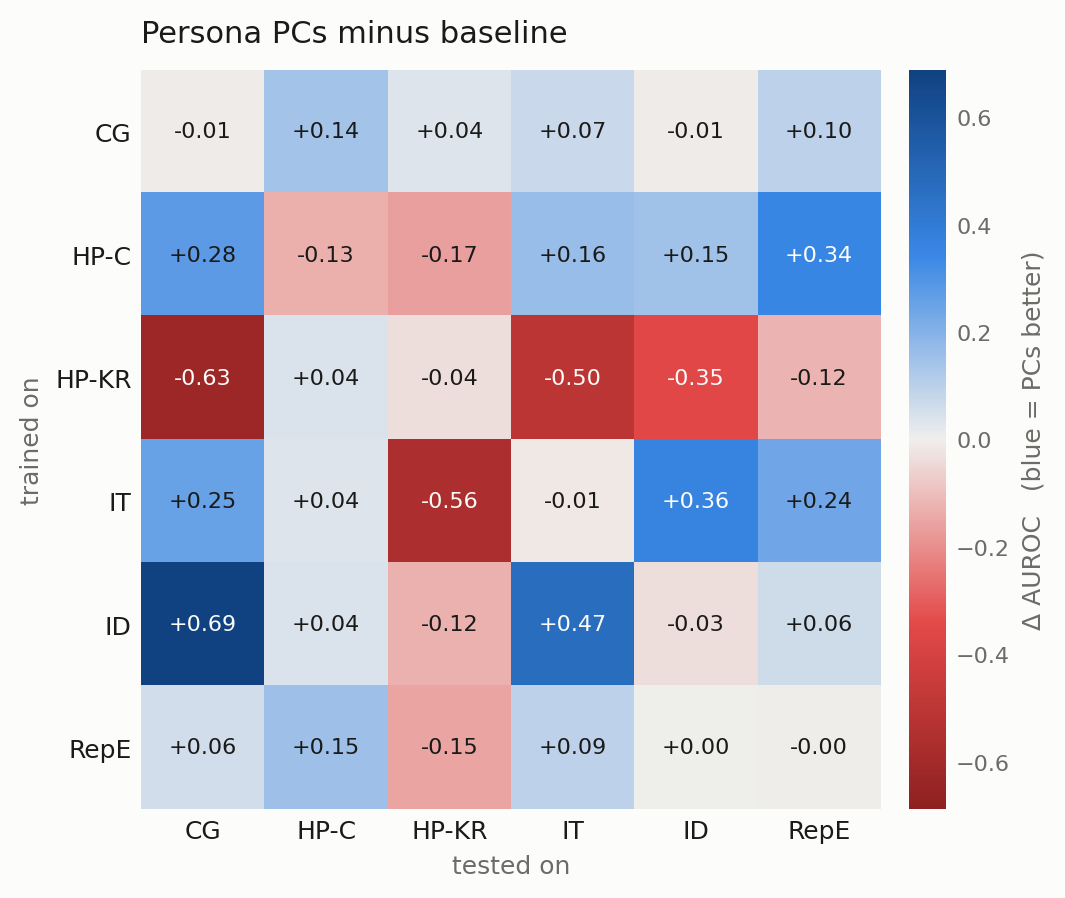
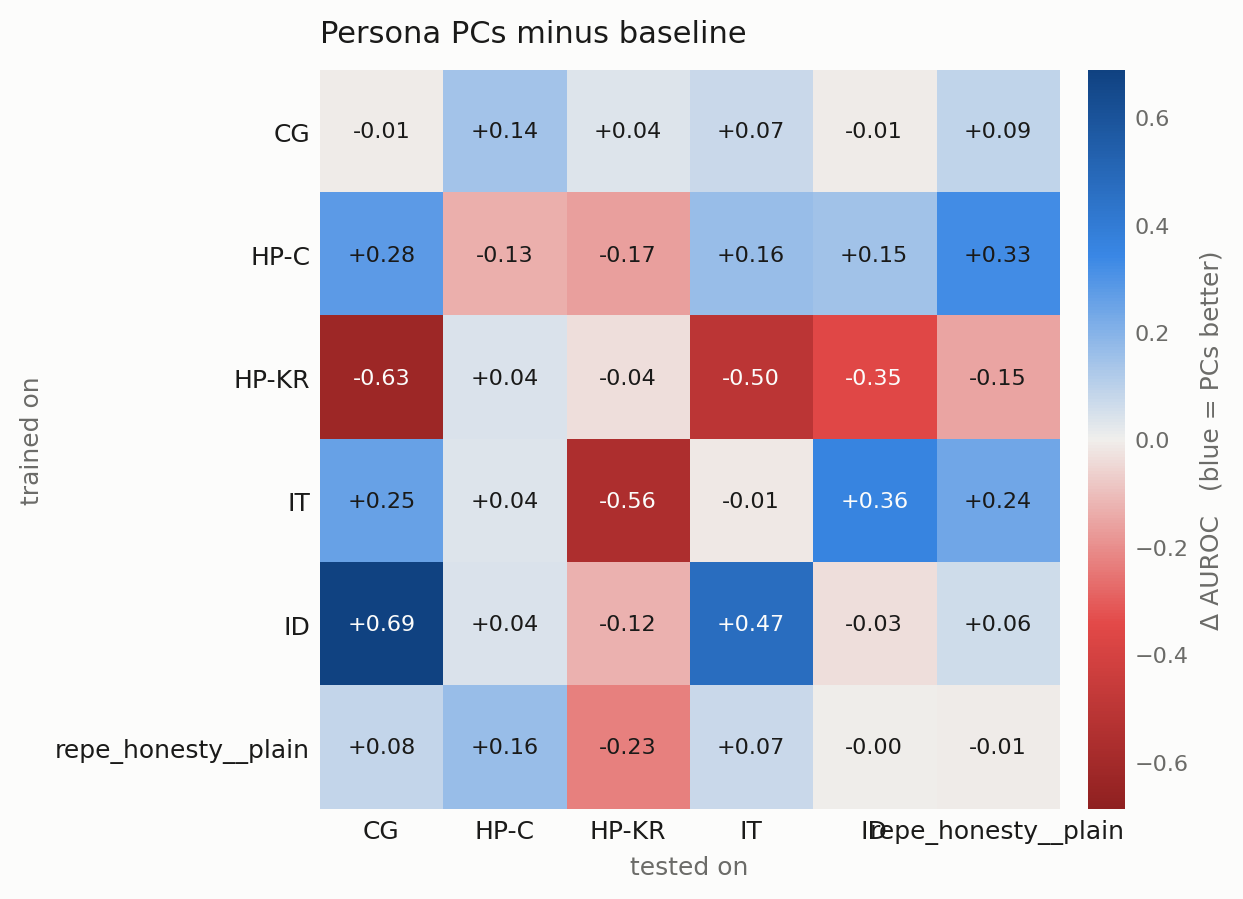
Use the full RepE split in the transfer matrix, and score against the benchmark metric
pool_activations walked eval_datasets + control_datasets, and train_dataset is
in neither, so RepE was represented in the matrix only by its 102-row
validation remainder -- not the 490-row split the probe actually trains on.
That handicapped the RepE row of the 8192-d baseline for a reason unrelated to
the method under test.

Pool the train split too and merge the halves back into one RepE dataset (448
+ 102 = 550 rows). They are an 80/20 split of the same 306 facts, so keeping
them apart would also have created a train->val cell that looks like transfer
while being purely in-distribution.

Effect on the headline: none worth speaking of. Off-diagonal baseline 0.6468
-> 0.6478, pc3 0.6853 -> 0.6823, and every conclusion stands, including the
6x drop in train-set sensitivity (0.167 -> 0.027). Pooling still verifies at
delta 0.0000 against the run.

Also answers whether this beats the benchmark: no. On Liars' Bench's own
headline metric -- balanced accuracy at 1% FPR on the alpaca control -- the
persona methods reach 0.547-0.558 against the paper's Mean Probe at 0.636 and
this run's probe at 0.721, despite having the best AUROC of the three (0.75
-0.77 vs 0.68-0.70). The cause is calibration, not ranking: on convincing-game
the axis scores AUROC 0.976 and flags 1.2% of the lies, because the whole
dataset sits below the control threshold. That is the same pathology the paper
reports for its own probe, more severe.
[…]

diff --git a/src/probes/deception-detection/deception_detection/scripts/persona_ood.py b/src/probes/deception-detection/deception_detection/scripts/persona_ood.py
@@ -43,6 +43,13 @@ OUT_DIR = REPO_ROOT / "results" / "persona_ood"
 # honest-only, so it cannot be a train/test cell; kept as a zero-shot reference
 CONTROL_DATASET = "XXXX-20__plain"
 
+# The experiment splits RepE 80/20 into train and a "_val" remainder, but both halves are the
+# same 306 underlying facts, so for transfer purposes they are one dataset. Merging them gives
+# the RepE row the training protocol the paper actually uses (and the deployed probe was fitted
+# with) instead of the 102-row remainder. Keeping them apart would also create a train->val cell
+# that looks like transfer while being purely in-distribution.
+MERGE_INTO = {"repe_honesty__plain_val": "repe_honesty__plain"}
+
 # matches the deployed probe (detectors.py:311-376): standardise, then L2 logistic regression
 # with reg_coeff 10 and no intercept
 REG_COEFF = 10.0
@@ -68,7 +75,7 @@ class Pooled:
 
 def load_pooled(pooled_dir: Path = POOLED_DIR) -> dict[str, Pooled]:
     """Load every pooled dataset, keeping only HONEST/DECEPTIVE rows."""
-    out: dict[str, Pooled] = {}
+    parts: dict[str, list[tuple[np.ndarray, np.ndarray]]] = {}
     for path in sorted(pooled_dir.glob("*.npz")):
         raw = np.load(path, allow_pickle=False)
         labels = raw["labels"].astype(str)
@@ -77,10 +84,19 @@ def load_pooled(pooled_dir: Path = POOLED_DIR) -> dict[str, Pooled]:
         dropped = int((~keep).sum())
         if dropped:
             logger.info(f"{name}: dropping {dropped} rows that are neither honest nor deceptive")
+        target = MERGE_INTO.get(name, name)
+        parts.setdefault(target, []).append(
+            (raw["pooled"][keep].astype(np.float64), (labels[keep] == "DECEPTIVE").astype(int))
+        )
+
+    out: dict[str, Pooled] = {}
+    for name, pieces in parts.items():
+        if len(pieces) > 1:
+            logger.info(f"{name}: merged {len(pieces)} splits ({[len(y) for _, y in pieces]} rows)")
         out[name] = Pooled(
             name=name,
-            z=raw["pooled"][keep].astype(np.float64),
-            y=(labels[keep] == "DECEPTIVE").astype(int),
+            z=np.concatenate([z for z, _ in pieces]),
+            y=np.concatenate([y for _, y in pieces]),
         )
     return out
 

diff --git a/src/probes/deception-detection/deception_detection/scripts/pool_activations.py b/src/probes/deception-detection/deception_detection/scripts/pool_activations.py
@@ -112,7 +112,14 @@ def run(
     logger.info(f"pooling from {acts_cache.cache_root()} | model={model_name} layers={layers}")
 
     out_dir.mkdir(parents=True, exist_ok=True)
-    datasets = list(experiment.eval_datasets) + list(experiment.control_datasets)
+    # train_dataset is in neither eval_datasets nor control_datasets, so it would otherwise be
+    # skipped -- leaving RepE represented only by its 102-row validation remainder rather than
+    # the 490-row split the probe actually trains on.
+    datasets = (
+        [experiment.train_dataset]
+        + list(experiment.eval_datasets)
+        + list(experiment.control_datasets)
+    )
 
     for dataset in datasets:
         if len(dataset) == 0:

diff --git a/src/probes/deception-detection/results/persona_ood/summary.md b/src/probes/deception-detection/results/persona_ood/summary.md
@@ -9,7 +9,7 @@ activations from the Liars' Bench sweep. No new model calls: every example was a
 | | |
 |---|---|
 | activations | layer 20, 8192-d, mean-pooled over assistant response tokens |
-| examples | 13,648 cached, pooled to 301 MB (7 datasets) |
+| examples | 13,648 cached, pooled to 310 MB (7 datasets) |
 | persona set P | the **15** deception + honesty personas, not the full 26-persona bank |
 | PCA | on the centred 15; explained variance **[0.464, 0.116, 0.097]**, 67.7% cumulative |
 | probe | StandardScaler → LogisticRegression(C=0.1, no intercept), matching the deployed probe |
@@ -30,22 +30,22 @@ Mean AUROC over the 6×6 train/test matrix:
 
 | features | dim | off-diagonal | off-diag. excl. HP-KR | diagonal |
 |---|---|---|---|---|
-| baseline (pooled activations) | 8192 | 0.6468 | 0.7278 | **0.9564** |
-| **top-3 persona PCs** | 3 | **0.6853** | **0.9123** | 0.9187 |
-| random 3-d projections | 3 | 0.5261 | 0.5590 | 0.7769 |
-| deception axis only | 1 | 0.6462 | 0.9248 | 0.9197 |
+| baseline (pooled activations) | 8192 | 0.6478 | 0.7282 | **0.9564** |
+| **top-3 persona PCs** | 3 | **0.6823** | **0.9123** | 0.9184 |
+| random 3-d projections | 3 | 0.5269 | 0.5599 | 0.7874 |
+| deception axis only | 1 | 0.6457 | 0.9237 | 0.9188 |
 
-**Off-diagonal improves (+0.039 overall, +0.185 excluding HP-KR); the diagonal degrades
+**Off-diagonal improves (+0.035 overall, +0.184 excluding HP-KR); the diagonal degrades
 (−0.038).** Both directions match the paper, which reports gains on cross-dataset pairs "along
-with some degradation on diagonal pairs". 21 of 30 off-diagonal cells improve, median **+0.059**.
+with some degradation on diagonal pairs". 20 of 30 off-diagonal cells improve, median **+0.068**.
 
 ## Both controls pass — but they reframe the result
 
-**It is not dimensionality reduction.** Random 3-d projections reach only 0.526 off-diagonal
-against the PCs' 0.685. Three arbitrary directions destroy the signal; three persona directions
+**It is not dimensionality reduction.** Random 3-d projections reach only 0.527 off-diagonal
+against the PCs' 0.682. Three arbitrary directions destroy the signal; three persona directions
 preserve it. The structure matters, not the rank.
 
-**It is almost entirely one direction.** The deception axis alone (1-d) reaches 0.9248
+**It is almost entirely one direction.** The deception axis alone (1-d) reaches 0.9237
 off-diagonal excluding HP-KR — *better* than the top-3 PCs' 0.9123. Since PC1 is essentially that
 axis (cos 0.949), PC2 and PC3 add nothing for a healthy training set, and slightly hurt.
 
@@ -61,7 +61,7 @@ excluded, since it is inverted and dominates):
 
 | features | mean std across training sets |
 |---|---|
-| baseline | 0.168 |
+| baseline | 0.167 |
 | **top-3 persona PCs** | **0.027** |
 
 A **6× reduction**. In the baseline matrix, which dataset you train on swings transfer wildly
@@ -83,14 +83,51 @@ persona role-play rollouts. Compared against the RepE-trained probe from the swe
 | harm_refusal_knowledge_report | 2139 | 139 | 0.103 | 0.150 | 0.109 |
 | insider_trading | 1080 | 423 | 0.987 | 0.988 | 0.973 |
 | instruct_dishonesty | 5432 | 3045 | 0.960 | 0.959 | 0.950 |
-| repe_honesty (val) | 102 | 51 | 0.997 | 0.997 | 1.000 |
+| repe_honesty (train+val) | 550 | 275 | 0.992 | 0.996 | 1.000* |
 
 The axis matches or beats the trained probe on five of six, and on **harm-pressure-choice it wins
 by +0.23** — turning a near-chance result (0.471) into a usable one (0.704). A direction derived
 from persona rollouts, never fitted to this benchmark, outperforms a probe trained on RepE
 contrast pairs on the dataset where that probe fails.
 
+\* in-distribution for the deployed probe, which was fitted on these rows.
+
 As expected from cos = 0.949, the axis and PC1 agree closely everywhere.
+
+## Against the Liars' Bench baselines: better at ranking, worse at the benchmark
+
+The benchmark's headline metric is **balanced accuracy at 1% FPR on the alpaca control**, not
+AUROC. Averaged over the five shared datasets (CG, HP-C, HP-KR, IT, ID):
+
+| method | bal. acc @1% FPR | recall @1% | AUROC |
+|---|---|---|---|
+| RepE probe (this run) | **0.721** | — | 0.697 |
+| paper Mean Probe, Llama | 0.636 | — | 0.682 |
+| PC3 probe (RepE-trained) | 0.558 | 0.121 | **0.766** |
+| PC1 (zero-shot) | 0.555 | 0.114 | 0.751 |
+| persona axis (zero-shot) | 0.547 | 0.096 | 0.746 |
+
+The persona methods have the **best ranking and the worst thresholded accuracy**. The reason is
+calibration against the control, not ranking failure — recall at the 1% threshold:
+
+```
+CG     AUROC 0.976  ->  recall 0.012
+HP-C   AUROC 0.704  ->  recall 0.000
+IT     AUROC 0.987  ->  recall 0.142
+ID     AUROC 0.960  ->  recall 0.324
+```
+
+On convincing-game the axis separates that dataset's own honest and deceptive examples almost
+perfectly, and flags 1.2% of its lies: the entire CG distribution sits below the alpaca
+threshold. This is the same failure the Liars' Bench paper diagnoses for its own Mean Probe —
+performance "strongly impeded by the high decision threshold, which was determined relative to
+honest examples in our control dataset" — only more severe here.
+
+**So: no, this does not beat the Liars' Bench baselines.** At 0.55 balanced accuracy it would
+rank below Mean Probe's published 0.54 neighbours and well below UQC (0.60), Self-Evaluation
+(0.66) and LLM-as-a-Judge (0.73). Persona directions carry real, transferable deception signal,
+but they are not calibrated for a fixed-FPR deployment threshold, and the benchmark forbids the
+per-dataset calibration that would fix it.
 
 ## HP-KR is inverted under a third independent method
 
@@ -113,8 +150,11 @@ the dataset, not of any one probe.
   the off-diagonal means are reported with and without it for that reason.
 - **Thin cells.** harm_refusal_choice and harm_refusal_knowledge_report carry only 134 and 139
   deceptive examples against ~2000 honest, so their AUROCs have wide error bars.
-- **repe_honesty val** is in-distribution for the deployed probe and has only 102 rows; it is kept
-  as a reference row but should not be read as a transfer result.
+- **RepE is in-distribution** for the deployed probe, so its diagonal and its column say nothing
+  about transfer. It uses the full 80/20 split merged back together (448 train + 102 val = 550
+  rows), which is the protocol the paper and the deployed probe use. Running it with only the
+  102-row validation remainder moved the headline by 0.003, so the matrix is not sensitive to
+  this choice.
 
 ## Files
 
